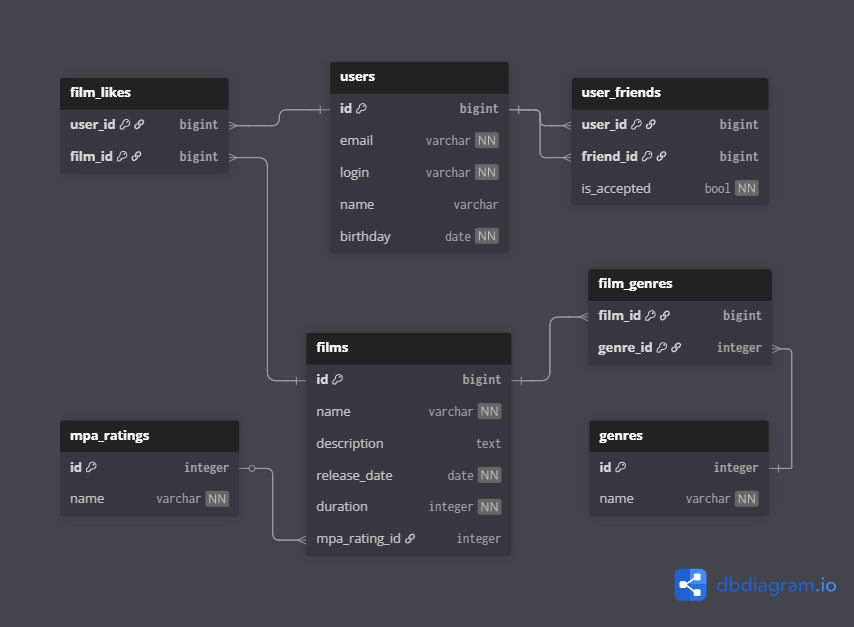
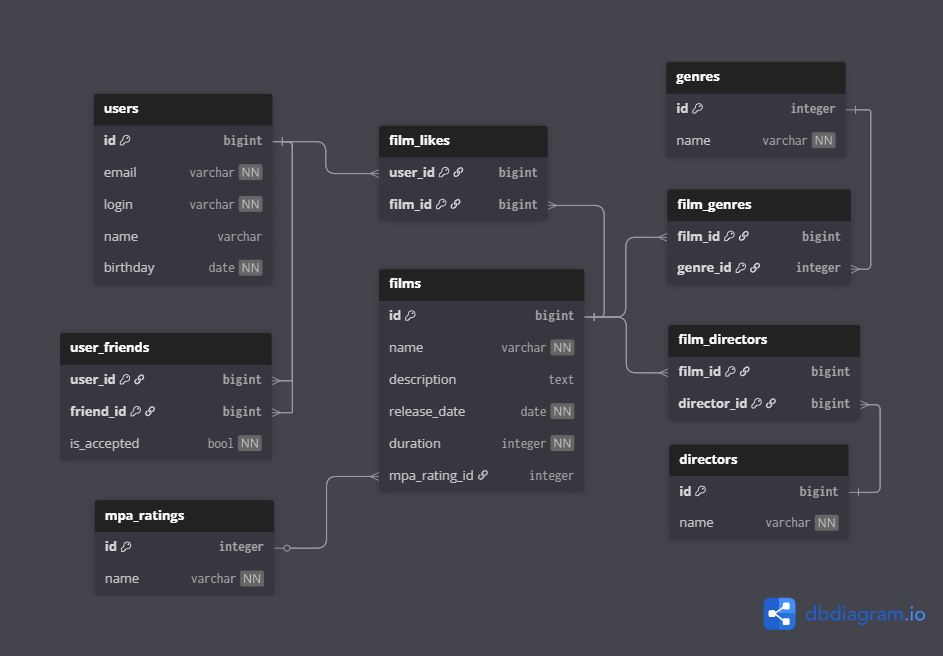
feat: find films by director; diagram updated

diff --git a/src/main/java/ru/yandex/practicum/filmorate/dal/db/FilmDbRepository.java b/src/main/java/ru/yandex/practicum/filmorate/dal/db/FilmDbRepository.java
@@ -65,6 +65,24 @@ public class FilmDbRepository extends BaseDbRepositoryExtractor<Film> implements
 
     private static final String DELETE_FILM_QUERY = "DELETE FROM films WHERE id = ?";
 
+    private static final String FIND_DIRECTOR_FILMS_SORT_BY_DATE_SUBQUERY = """
+            (SELECT f.*
+            FROM films f
+            JOIN film_directors fd ON fd.film_id=f.id
+            WHERE fd.director_id = ?
+            ORDER BY EXTRACT(YEAR FROM release_date))
+            """;
+
+    private static final String FIND_DIRECTOR_FILMS_SORT_BY_LIKES_SUBQUERY = """
+            (SELECT f.*, count(fl.film_id) AS likes_count
+            FROM films f
+            JOIN film_directors fd ON fd.film_id=f.id
+            LEFT JOIN film_likes fl ON fl.film_id=f.id
+            WHERE fd.director_id = ?
+            GROUP BY f.id
+            ORDER BY likes_count DESC)
+            """;
+
     private final JdbcTemplate db;
 
     public FilmDbRepository(JdbcTemplate db, ResultSetExtractor<List<Film>> extractor) {
@@ -86,16 +104,12 @@ public class FilmDbRepository extends BaseDbRepositoryExtractor<Film> implements
 
         Set<Genre> genres = film.getGenres();
         if (genres != null) {
-            for (Genre g : genres) {
-                db.update(INSERT_FILM_GENRE_QUERY, newFilmId, g.getId());
-            }
+            genres.forEach(g -> db.update(INSERT_FILM_GENRE_QUERY, newFilmId, g.getId()));
         }
 
         Set<Director> directors = film.getDirectors();
         if (directors != null) {
-            for (Director d : directors) {
-                db.update(INSERT_FILM_DIRECTOR_QUERY, newFilmId, d.getId());
-            }
+            directors.forEach(d -> db.update(INSERT_FILM_DIRECTOR_QUERY, newFilmId, d.getId()));
         }
 
         return film.toBuilder().id(newFilmId).build();
@@ -116,17 +130,13 @@ public class FilmDbRepository extends BaseDbRepositoryExtractor<Film> implements
         Set<Genre> genres = film.getGenres();
         if (genres != null) {
             db.update(DELETE_FILM_GENRES_QUERY, film.getId());
-            for (Genre g : genres) {
-                db.update(INSERT_FILM_GENRE_QUERY, film.getId(), g.getId());
-            }
+            genres.forEach(g -> db.update(INSERT_FILM_GENRE_QUERY, film.getId(), g.getId()));
         }
 
         Set<Director> directors = film.getDirectors();
         if (directors != null) {
             db.update(DELETE_FILM_DIRECTORS_QUERY, film.getId());
-            for (Director d : directors) {
-                db.update(INSERT_FILM_DIRECTOR_QUERY, film.getId(), d.getId());
-            }
+            directors.forEach(d -> db.update(INSERT_FILM_DIRECTOR_QUERY, film.getId(), d.getId()));
         }
 
         return film;
@@ -179,6 +189,18 @@ public class FilmDbRepository extends BaseDbRepositoryExtractor<Film> implements
         params.add(count);
 
         return this.findMany(SELECT_FILMS_TEMPLATE.formatted(query.toString()), params.toArray());
+    }
+
+    @Override
+    public List<Film> findFilmsByDirectorIdSortByYear(Long directorId) {
+        return this.findMany(SELECT_FILMS_TEMPLATE
+                .formatted(FIND_DIRECTOR_FILMS_SORT_BY_DATE_SUBQUERY), directorId);
+    }
+
+    @Override
+    public List<Film> findFilmsByDirectorIdSortByLikes(Long directorId) {
+        return this.findMany(SELECT_FILMS_TEMPLATE
+                .formatted(FIND_DIRECTOR_FILMS_SORT_BY_LIKES_SUBQUERY), directorId);
     }
 
     @Override

diff --git a/src/main/java/ru/yandex/practicum/filmorate/error/ErrorHandler.java b/src/main/java/ru/yandex/practicum/filmorate/error/ErrorHandler.java
@@ -2,6 +2,7 @@ package ru.yandex.practicum.filmorate.error;
 
 import org.springframework.http.HttpStatus;
 import org.springframework.web.bind.MethodArgumentNotValidException;
+import org.springframework.web.bind.MissingServletRequestParameterException;
 import org.springframework.web.bind.annotation.ExceptionHandler;
 import org.springframework.web.bind.annotation.ResponseStatus;
 import org.springframework.web.bind.annotation.RestControllerAdvice;
@@ -28,6 +29,12 @@ public class ErrorHandler {
     @ResponseStatus(HttpStatus.BAD_REQUEST)
     public ErrorResponse handleValidationError(final MethodArgumentNotValidException e) {
         return new ErrorResponse("Bad request", "Invalid request content");
+    }
+
+    @ExceptionHandler
+    @ResponseStatus(HttpStatus.BAD_REQUEST)
+    public ErrorResponse handleMissingRequestParameterError(final MissingServletRequestParameterException e) {
+        return new ErrorResponse("Bad request", "Missing required request parameter");
     }
 
     @ExceptionHandler

diff --git a/src/main/java/ru/yandex/practicum/filmorate/service/FilmService.java b/src/main/java/ru/yandex/practicum/filmorate/service/FilmService.java
@@ -28,6 +28,11 @@ public class FilmService {
     private final MpaService mpaService;
     private final DirectorService directorService;
 
+    public enum FilmsSorting {
+        likes,
+        year
+    }
+
     public List<FilmDto> getAllFilms() {
         return storage.findAll().stream().map(FilmMapper::mapToFilmDto).toList();
     }
@@ -86,6 +91,16 @@ public class FilmService {
     public boolean filmExists(Long id) {
         return this.storage.findById(id).isPresent();
     }
+
+    public List<FilmDto> getFilmsByDirectorId(Long directorId, FilmsSorting sort) {
+        List<Film> films = switch (sort) {
+            case year -> storage.findFilmsByDirectorIdSortByYear(directorId);
+            case likes -> storage.findFilmsByDirectorIdSortByLikes(directorId);
+        };
+
+        return films.stream().map(FilmMapper::mapToFilmDto).toList();
+    }
+
 
     private void validateGenres(Set<Genre> genres) {
         if (genres != null && !genreService.isGenresExists(genres)) {

diff --git a/src/main/java/ru/yandex/practicum/filmorate/dal/inmemory/InMemoryFilmRepository.java b/src/main/java/ru/yandex/practicum/filmorate/dal/inmemory/InMemoryFilmRepository.java
@@ -19,7 +19,7 @@ public class InMemoryFilmRepository implements FilmRepository {
     private int lastId = 0;
 
     @Override
-    public Collection<Film> findAll() {
+    public List<Film> findAll() {
         return new ArrayList<>(storage.films.values().stream()
                 .map(this::buildFilm)
                 .toList()
@@ -112,6 +112,16 @@ public class InMemoryFilmRepository implements FilmRepository {
         storage.films.remove(id);
         storage.filmGenres.remove(id);
         storage.filmLikes.remove(id);
+    }
+
+    @Override
+    public List<Film> findFilmsByDirectorIdSortByLikes(Long directorId) {
+        return List.of();
+    }
+
+    @Override
+    public List<Film> findFilmsByDirectorIdSortByYear(Long directorId) {
+        return List.of();
     }
 
     private int getNextId() {

diff --git a/src/main/java/ru/yandex/practicum/filmorate/dal/FilmRepository.java b/src/main/java/ru/yandex/practicum/filmorate/dal/FilmRepository.java
@@ -2,13 +2,11 @@ package ru.yandex.practicum.filmorate.dal;
 
 import ru.yandex.practicum.filmorate.model.Film;
 
-import java.util.Collection;
 import java.util.List;
 import java.util.Optional;
 
 public interface FilmRepository {
-    Collection<Film> findAll();
-
+    List<Film> findAll();
 
     // Новый метод для поиска популярных фильмов с фильтрами по жанру и году
     List<Film> findPopular(int count, Integer genreId, Integer year);
@@ -20,4 +18,8 @@ public interface FilmRepository {
     Film update(Film film);
 
     void deleteById(Long id);
+
+    List<Film> findFilmsByDirectorIdSortByYear(Long directorId);
+
+    List<Film> findFilmsByDirectorIdSortByLikes(Long directorId);
 }

diff --git a/src/main/java/ru/yandex/practicum/filmorate/controller/FilmController.java b/src/main/java/ru/yandex/practicum/filmorate/controller/FilmController.java
@@ -60,4 +60,10 @@ public class FilmController {
     public void delete(@PathVariable Long id) {
         filmService.deleteFilm(id);
     }
+
+    @GetMapping("/director/{directorId}")
+    public Collection<FilmDto> getFilmsByDirector(@PathVariable Long directorId,
+                                                  @RequestParam FilmService.FilmsSorting sortBy) {
+        return filmService.getFilmsByDirectorId(directorId, sortBy);
+    }
 }
